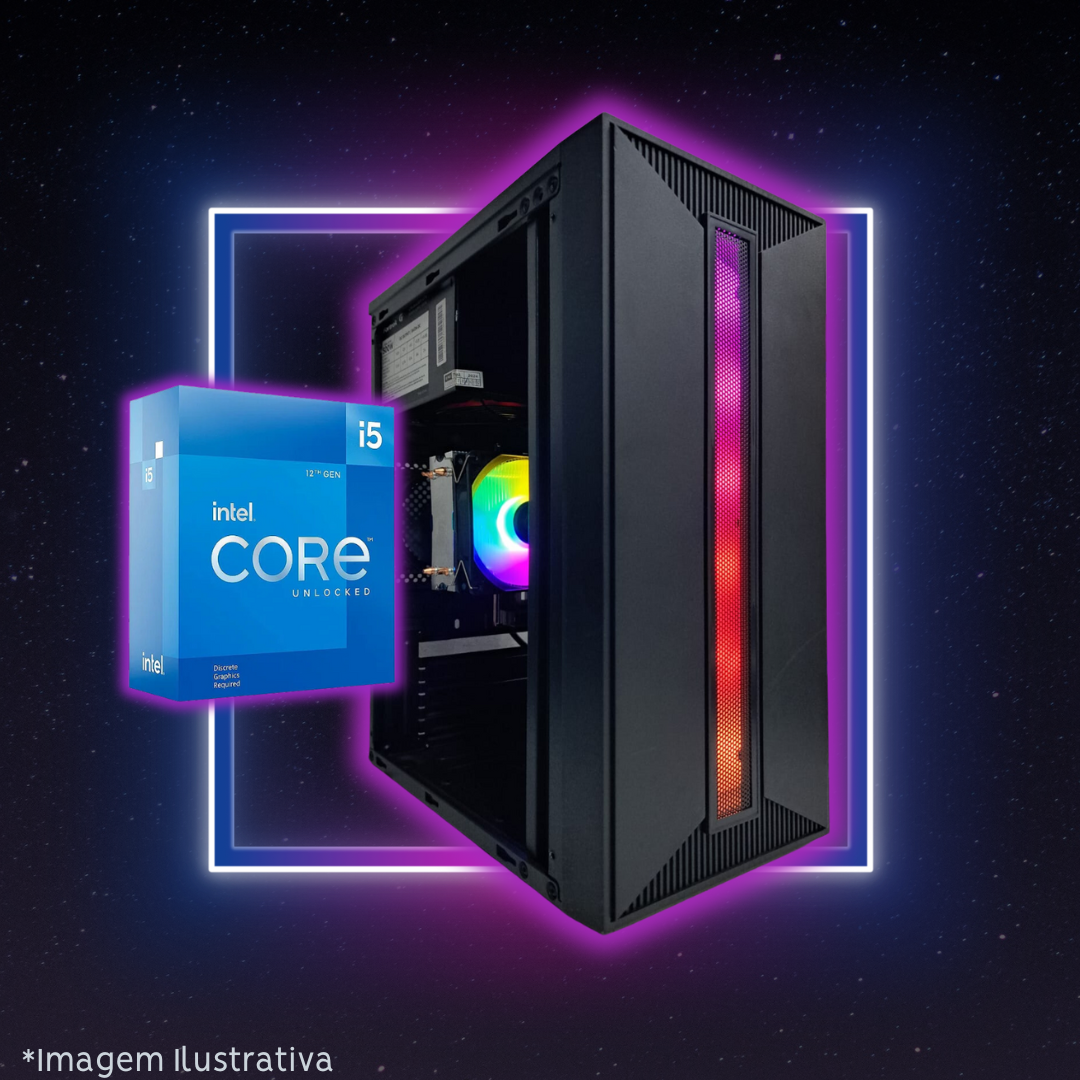
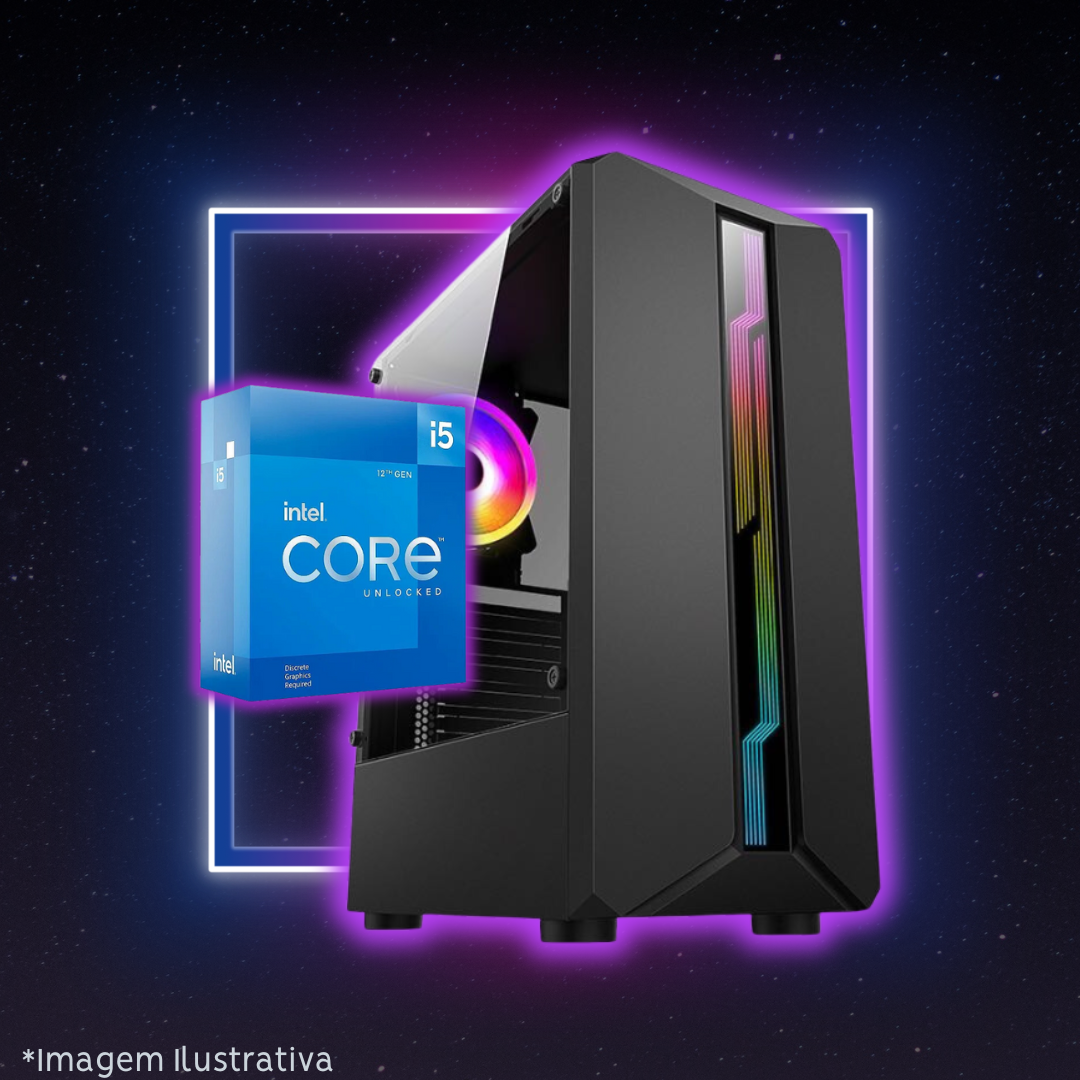
Updating cabinete and pics

diff --git a/src/routes/pc_gamer/+page.svelte b/src/routes/pc_gamer/+page.svelte
@@ -5,22 +5,22 @@
     {
       title: "(PC0002)PC GAMER R$1.190,00",
       image: "i5-3.png",
-      text: "💥 LEAGUE OF LEGENDS\n🌎 MINECRAFT\n🟥 ROBLOX\n\n*Processador:* I5 de 3ª Geração\n*Memória RAM:* 2x8GB(16GB) DDR3\n*Armazenamento:* SSD 240GB\n*Gabinete:* GAMER BLUECASE C/ LED RGB Controlável\n*Fonte:* 500W\n\n*R$ 1.190,00* em até 10x sem juros!",
+      text: "💥 LEAGUE OF LEGENDS\n🌎 MINECRAFT\n🟥 ROBLOX\n\n*Processador:* I5 de 3ª Geração\n*Memória RAM:* 2x8GB(16GB) DDR3\n*Armazenamento:* SSD 240GB\n*Gabinete:* GAMER HAYOM C/ LED RGB\n*Fonte:* 500W\n\n*R$ 1.190,00* em até 10x sem juros!",
     },
     {
       title: "SETUP COMPLETO R$1.690,00",
       image: "kit1690.png",
-      text: "💥 LEAGUE OF LEGENDS\n🌎 MINECRAFT\n🟥 ROBLOX\n\n*Processador:* I5 de 3ª Geração\n*Memória RAM:* 2x8GB(16GB)\n*Armazenamento:* SSD 240GB\n*Gabinete:* GAMER BLUECASE C/ LED RGB Controlável\n*Fonte:* 500W\n\n +*KIT GAMER:* 🖥 MONITOR SEMINOVO 19' POLEGADAS, ⌨ TECLADO, 🖱 MOUSE, MOUSEPAD 🎧 HEADSET\n\n*R$ 1.690,00* em até 10x sem juros!",
+      text: "💥 LEAGUE OF LEGENDS\n🌎 MINECRAFT\n🟥 ROBLOX\n\n*Processador:* I5 de 3ª Geração\n*Memória RAM:* 2x8GB(16GB)\n*Armazenamento:* SSD 240GB\n*Gabinete:* GAMER HAYOM C/ LED RGB\n*Fonte:* 500W\n\n +*KIT GAMER:* 🖥 MONITOR SEMINOVO 19' POLEGADAS, ⌨ TECLADO, 🖱 MOUSE, MOUSEPAD 🎧 HEADSET\n\n*R$ 1.690,00* em até 10x sem juros!",
     },
     {
       title: "i5 3ª + RX 550 - R$1.790,00",
-      image: "i5-3.png",
-      text: "💥 LEAGUE OF LEGENDS\n🌎 MINECRAFT\n🟥 ROBLOX\n🚔 GTA RP(Gráficos Baixos)\n🔫 CSGO/VALORANT\n🦙 FORTNITE(Gráficos Baixos)\n\n*Processador:* I5 de 3ª Geração\n*Memória RAM:* 2x8GB(16GB)\n*Placa de Vídeo:* RX 550 4GB\n*Armazenamento:* SSD 240GB\n*Gabinete:* GAMER BLUECASE C/ LED RGB Controlável\n*Fonte:* 500W\n\n*R$ 1.790,00* em até 10x sem juros!",
+      image: "i5-3+RX550.png",
+      text: "💥 LEAGUE OF LEGENDS\n🌎 MINECRAFT\n🟥 ROBLOX\n🚔 GTA RP(Gráficos Baixos)\n🔫 CSGO/VALORANT\n🦙 FORTNITE(Gráficos Baixos)\n\n*Processador:* I5 de 3ª Geração\n*Memória RAM:* 2x8GB(16GB)\n*Placa de Vídeo:* RX 550 4GB\n*Armazenamento:* SSD 240GB\n*Gabinete:* GAMER HAYOM C/ LED RGB\n*Fonte:* 500W\n\n*R$ 1.790,00* em até 10x sem juros!",
     },
     {
       title: "(PC0010)SETUP i5 3ª + RX 550 - R$2.290,00",
-      image: "kit1690.png",
-      text: "💥 LEAGUE OF LEGENDS\n🌎 MINECRAFT\n🟥 ROBLOX\n 🚔 GTA RP(Gráficos Baixos)\n🔫 CSGO/VALORANT\n\n*Processador:* I5 de 3ª Geração\n*Memória RAM:* 2x8GB(16GB)\n*Placa de Vídeo:* RX 550 4GB\n*Armazenamento:* SSD 240GB\n*Gabinete:* GAMER BLUECASE C/ LED RGB Controlável\n*Fonte:* 500W\n\n +*KIT GAMER:* 🖥 MONITOR SEMINOVO 19' POLEGADAS, ⌨ TECLADO, 🖱 MOUSE, MOUSEPAD E 🎧 HEADSET\n\n*R$ 2.290,00* em até 10x sem juros!",
+      image: "kit1690+RX550.png",
+      text: "💥 LEAGUE OF LEGENDS\n🌎 MINECRAFT\n🟥 ROBLOX\n 🚔 GTA RP(Gráficos Baixos)\n🔫 CSGO/VALORANT\n\n*Processador:* I5 de 3ª Geração\n*Memória RAM:* 2x8GB(16GB)\n*Placa de Vídeo:* RX 550 4GB\n*Armazenamento:* SSD 240GB\n*Gabinete:* GAMER HAYOM C/ LED RGB\n*Fonte:* 500W\n\n +*KIT GAMER:* 🖥 MONITOR SEMINOVO 19' POLEGADAS, ⌨ TECLADO, 🖱 MOUSE, MOUSEPAD E 🎧 HEADSET\n\n*R$ 2.290,00* em até 10x sem juros!",
     },
     {
       title: "(PC0001)GAMER RYZEN 5600G",
@@ -35,12 +35,12 @@
     {
       title: "GAMER I7 3 GERAÇÃO",
       image: "i5-3.png",
-      text: "💥 LEAGUE OF LEGENDS\n🌎 MINECRAFT\n🔫 VALORANT (50/70FPS)\n\n*Processador:* i7 3ª GERAÇÃO\n*Memória RAM:* 2x8GB(16GB)\n*Armazenamento:* SSD 240GB\n*Gabinete:* GAMER BLUECASE C/ LED RGB Controlável\n*Fonte:* 500W\n\n*R$ 1.490,00* em até 10x sem juros!",
+      text: "💥 LEAGUE OF LEGENDS\n🌎 MINECRAFT\n🔫 VALORANT (50/70FPS)\n\n*Processador:* i7 3ª GERAÇÃO\n*Memória RAM:* 2x8GB(16GB)\n*Armazenamento:* SSD 240GB\n*Gabinete:* GAMER HAYOM C/ LED RGB\n*Fonte:* 500W\n\n*R$ 1.490,00* em até 10x sem juros!",
     },
     {
       title: "i7 + GPU + PERIFÉRICOS",
       image: "kit1690.png",
-      text: "💥 LEAGUE OF LEGENDS\n🌎 MINECRAFT\n🟥 ROBLOX\n 🚔 GTA RP\n🔫 CSGO/VALORANT\n🦙 FORTNITE\n\n*Processador:* I7 de 3ª Geração\n*Memória RAM:* 2x8GB(16GB)\n*Placa de Vídeo:* RX 550 4GB\n*Armazenamento:* SSD 240GB\n*Gabinete:* GAMER BLUECASE C/ LED RGB Controlável\n*Fonte:* 500W\n\n +*KIT GAMER:* 🖥 MONITOR SEMINOVO 19' POLEGADAS, ⌨ TECLADO, 🖱 MOUSE, MOUSEPAD E 🎧 HEADSET\n\n*R$ 2.590,00* em até 10x sem juros!",
+      text: "💥 LEAGUE OF LEGENDS\n🌎 MINECRAFT\n🟥 ROBLOX\n 🚔 GTA RP\n🔫 CSGO/VALORANT\n🦙 FORTNITE\n\n*Processador:* I7 de 3ª Geração\n*Memória RAM:* 2x8GB(16GB)\n*Placa de Vídeo:* RX 550 4GB\n*Armazenamento:* SSD 240GB\n*Gabinete:* GAMER HAYOM C/ LED RGB\n*Fonte:* 500W\n\n +*KIT GAMER:* 🖥 MONITOR SEMINOVO 19' POLEGADAS, ⌨ TECLADO, 🖱 MOUSE, MOUSEPAD E 🎧 HEADSET\n\n*R$ 2.590,00* em até 10x sem juros!",
     },
     {
       title: "RYZEN 4500 + GTX 1650",
